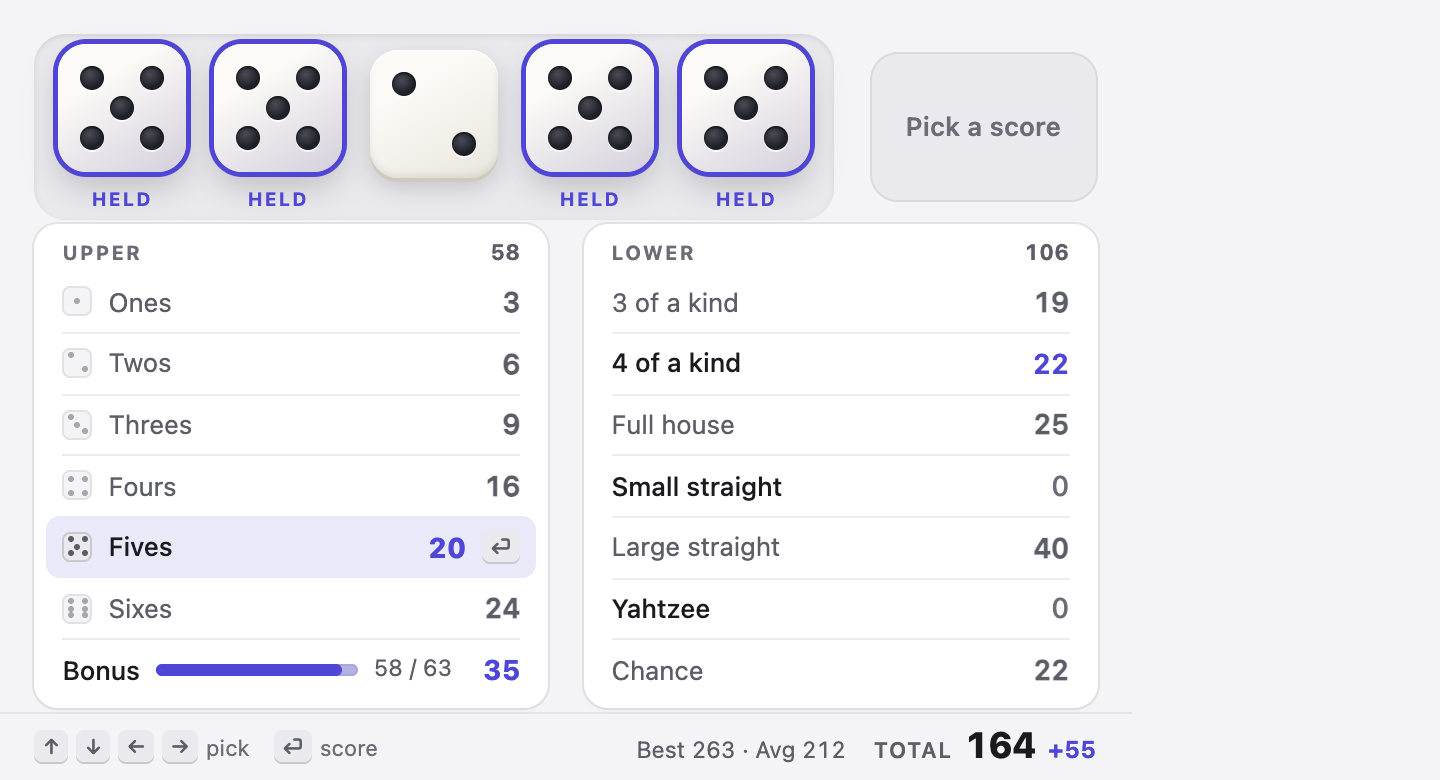
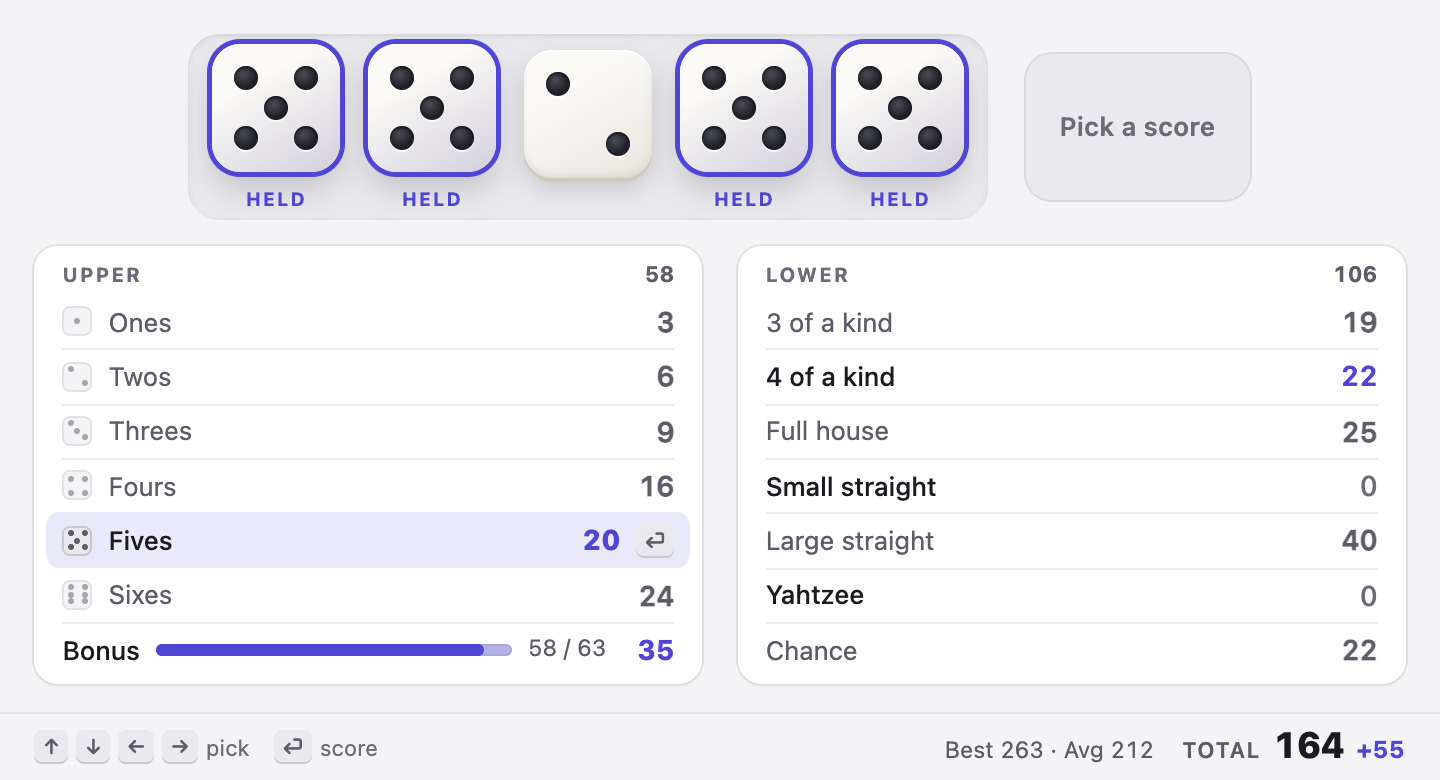
yahtzee: the page's typing flag is body.typing; body.keys matched the key-cap rule (.keys, inline-flex) and shrank the body to its content after the first key; the screenshots retaken at a true 720

diff --git a/extensions/yahtzee/surface/style.css b/extensions/yahtzee/surface/style.css
@@ -144,7 +144,7 @@ body.over #result { opacity: 1; transform: none; pointer-events: auto; }
   transition: opacity 120ms;
   pointer-events: none;
 }
-body.keys .die.cur::after { opacity: 0.8; }
+body.typing .die.cur::after { opacity: 0.8; }
 /* The dice a box counts, while its row is picked. */
 .die.counts .face { box-shadow: 0 0 0 2.5px color-mix(in srgb, var(--accent) 45%, transparent), 0 2px 0 var(--ivory-edge), var(--die-lift); }
 .die.held.counts .face { box-shadow: 0 0 0 2.5px var(--accent), 0 2px 0 var(--ivory-edge), 0 8px 16px rgba(0, 0, 0, 0.18); }
@@ -172,7 +172,7 @@ body.keys .die.cur::after { opacity: 0.8; }
 #roll .left i { width: 6px; height: 6px; border-radius: 50%; background: currentColor; opacity: 0.95; transition: opacity 200ms, transform 200ms; }
 #roll .left i.used { opacity: 0.28; transform: scale(0.8); }
 #roll .cap { position: absolute; right: 6px; top: 6px; opacity: 0; }
-body.keys #roll .cap { opacity: 1; }
+body.typing #roll .cap { opacity: 1; }
 #roll:hover { filter: brightness(1.08); }
 #roll:active, #roll.pressed { transform: translateY(2px); box-shadow: 0 0 0 color-mix(in srgb, var(--accent) 60%, #000), 0 3px 8px color-mix(in srgb, var(--accent) 30%, transparent); }
 #roll:disabled {
@@ -275,7 +275,7 @@ body.newbest #newbest { display: inline-block; }
 .cat .val { flex: none; min-width: 26px; text-align: right; font-size: 14px; font-weight: 650; }
 .cat .note { color: var(--pal-fg-faint); font-size: 11.5px; font-weight: 500; }
 .cat .enter { flex: none; display: none; }
-body.keys .cat.cur .enter { display: inline-grid; }
+body.typing .cat.cur .enter { display: inline-grid; }
 
 /* A filled box: its score, the label quiet; an open one's label is the one to read. */
 .cat .lbl { font-weight: var(--pal-weight-medium, 500); }

diff --git a/extensions/yahtzee/surface/main.ts b/extensions/yahtzee/surface/main.ts
@@ -108,7 +108,7 @@ window.addEventListener("keydown", (e) => {
     if (e.key === "Enter" || e.key === "y") play({ type: "new" }, true);
     return;
   }
-  document.body.classList.add("keys");
+  document.body.classList.add("typing");
   const k = e.key;
   const handled = () => e.preventDefault();
   if (st.ended) {
@@ -156,7 +156,7 @@ window.addEventListener("keydown", (e) => {
   }
 });
 // The keys' marks (the die ring, the Enter cap) show while the keys are in use; a mouse move hides them.
-window.addEventListener("mousemove", (e) => { if (e.movementX || e.movementY) document.body.classList.remove("keys"); });
+window.addEventListener("mousemove", (e) => { if (e.movementX || e.movementY) document.body.classList.remove("typing"); });
 
 pal.onAction((id) => { const m = moveOf(id); if (m) play(m, true); });
 pal.onTheme(() => board.render(st, cur));
